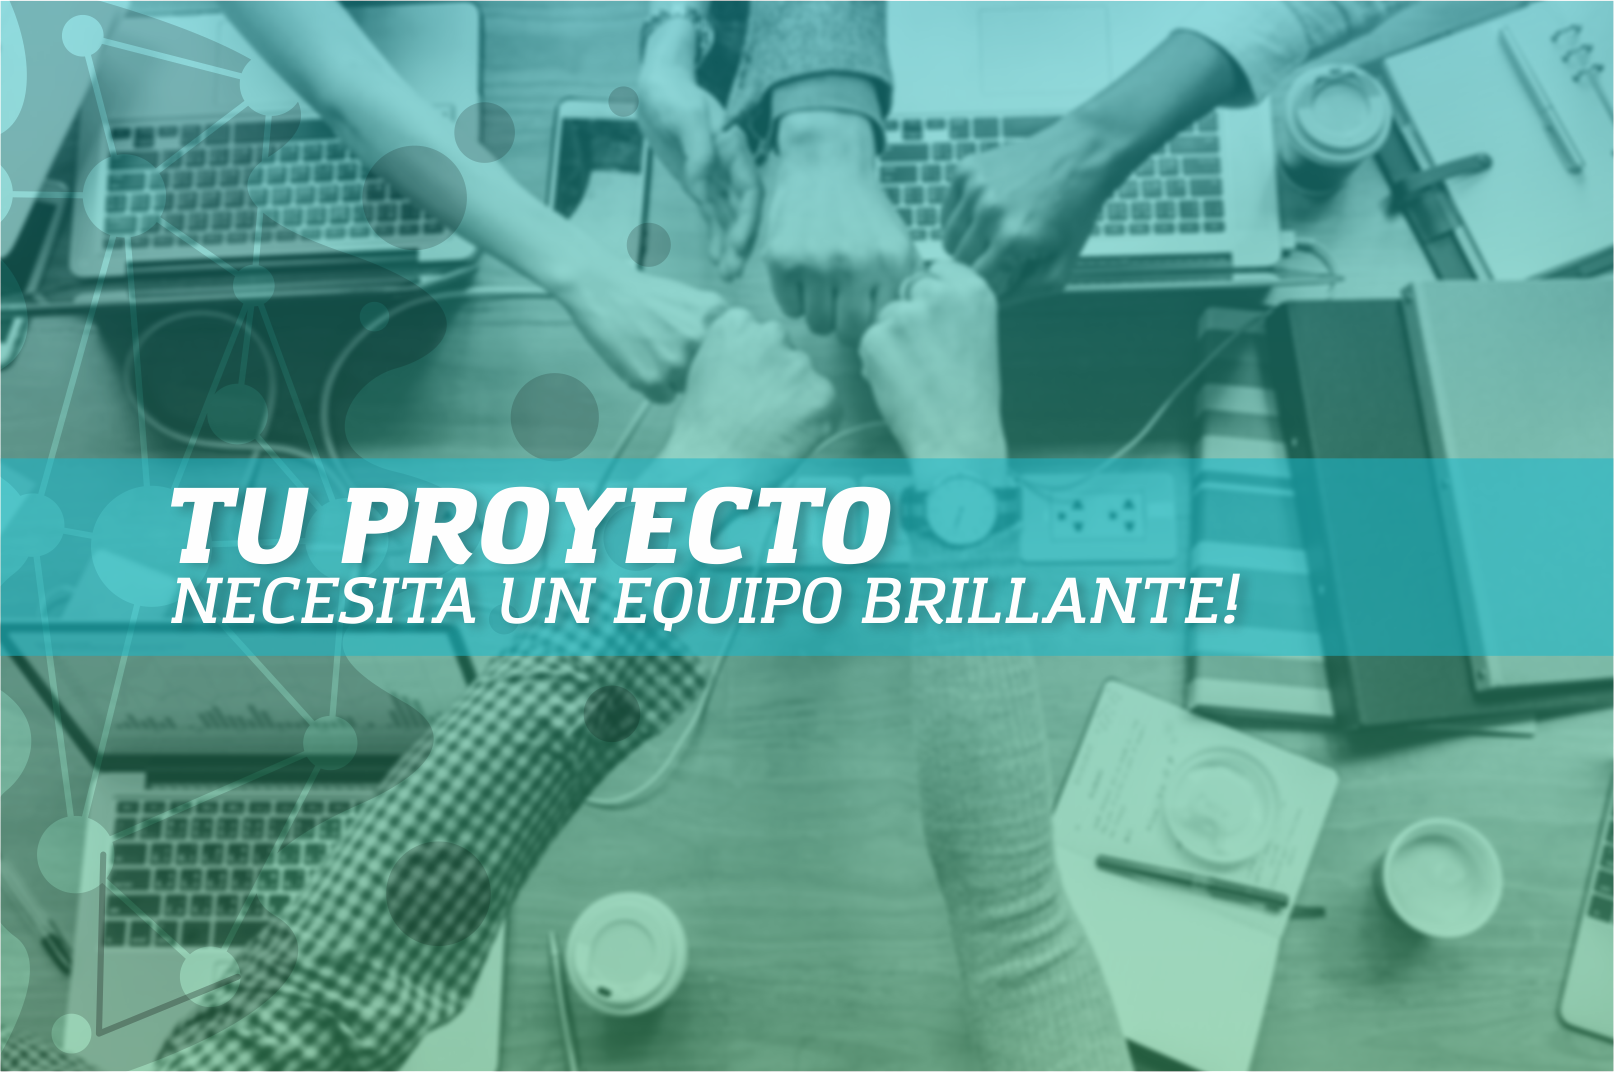
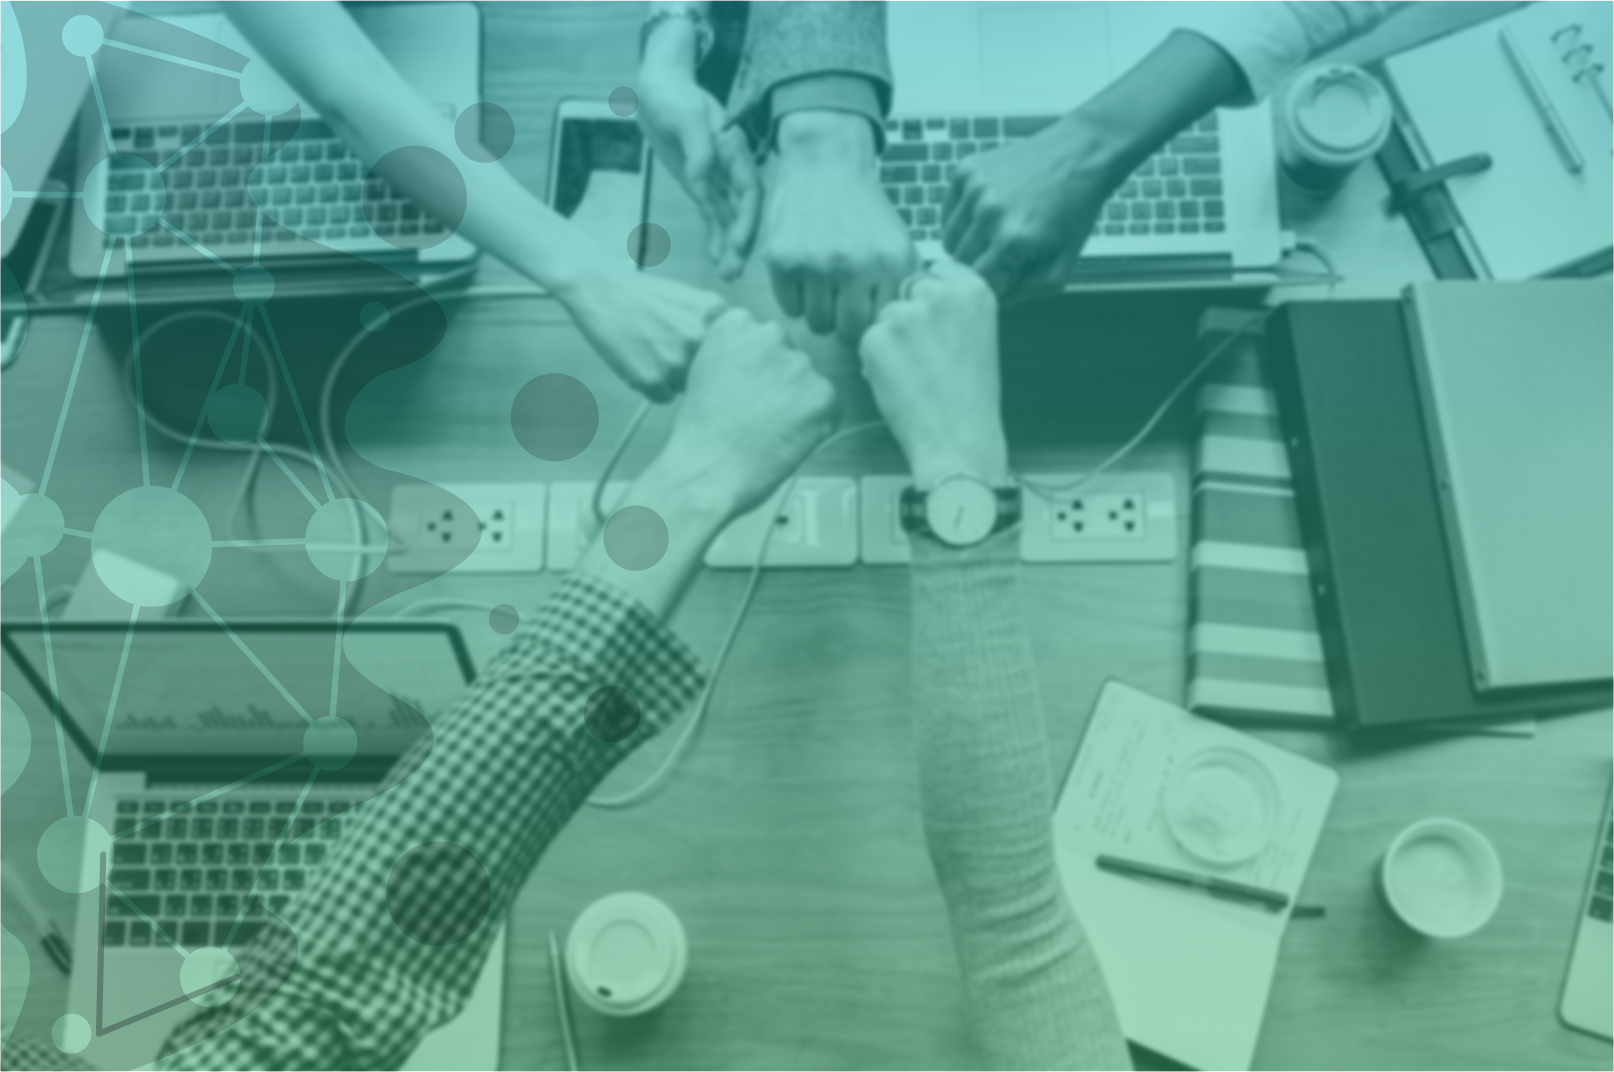
feat: hero modified

Changed region(s): [[0.0, 0.4002, 1.0, 0.6157]]

diff --git a/src/components/navigation.jsx b/src/components/navigation.jsx
@@ -4,7 +4,8 @@ export class Navigation extends Component {
   render() {
     return (
       <nav id="menu" className="menu-header navbar-default">
-        <div className="container">
+        <div className="container" id="container-menu">
+        <div id="menu-container">
           <div className="navbar-header">
             <button
               type="button"
@@ -31,29 +32,7 @@ export class Navigation extends Component {
             id="bs-example-navbar-collapse-1"
           >
             
-            <ul className="nav navbar-nav navbar-right" id="border-separator">
-              <li>
-                <a href="#services" className="page-scroll">
-                  Servicios
-                </a>
-              </li>
-              <li>
-                <a href="#portfolio" className="page-scroll">
-                  Galeria
-                </a>
-              </li>
-              <li>
-                <a href="#about" className="page-scroll">
-                  Ingresar
-                </a>
-              </li>
-              <li>
-                <a href="#about" className="page-scroll">
-                  Nosotros
-                </a>
-              </li>              
-            </ul>
-            <ul className="navbar-nav navbar-right">
+            <ul className="navbar-nav navbar-right" id="icon-social">
               <li>
                 <a
                   href={this.props.data ? this.props.data.facebook : "/"}
@@ -80,8 +59,31 @@ export class Navigation extends Component {
                 </a>
               </li>
             </ul>
+            <ul className="nav navbar-nav navbar-right" id="border-separator">
+              <li>
+                <a href="#services" className="page-scroll">
+                  Servicios
+                </a>
+              </li>
+              <li>
+                <a href="#portfolio" className="page-scroll">
+                  Galeria
+                </a>
+              </li>
+              <li>
+                <a href="#about" className="page-scroll">
+                  Ingresar
+                </a>
+              </li>
+              <li>
+                <a href="#about" className="page-scroll">
+                  Nosotros
+                </a>
+              </li>              
+            </ul>
+            </div>
+            </div>
           </div>
-        </div>
       </nav>
     );
   }

diff --git a/src/components/SliderHero/SliderHero.jsx b/src/components/SliderHero/SliderHero.jsx
@@ -3,13 +3,16 @@ import React from "react";
 import HeroSlider, { Slide, Nav, OverlayContainer } from "hero-slider";
 import Wrapper from "../UI/Wrapper/Wrapper";
 import Title from "../UI/Title/Title";
+import DownButton from "../../components/UI/Icon/down"
+
+
 import Subtitle from "../UI/Subtitle/Subtitle";
 
 // Images
-const bogliasco = "https://res.cloudinary.com/groupar/image/upload/v1603228791/groupar_f74hml.png";
-const countyClare = "https://res.cloudinary.com/groupar/image/upload/v1603228791/groupar_f74hml.png";
-const craterRock = "https://res.cloudinary.com/groupar/image/upload/v1603228791/groupar_f74hml.png";
-const giauPass = "https://res.cloudinary.com/groupar/image/upload/v1603228791/groupar_f74hml.png";
+const bogliasco = "https://res.cloudinary.com/groupar/image/upload/v1612286509/groupar_mszmp6.png";
+const countyClare = "https://res.cloudinary.com/groupar/image/upload/v1612286509/groupar_mszmp6.png";
+const craterRock = "https://res.cloudinary.com/groupar/image/upload/v1612286509/groupar_mszmp6.png";
+const giauPass = "https://res.cloudinary.com/groupar/image/upload/v1612286509/groupar_mszmp6.png";
 
 const app = () => {
   return (
@@ -35,10 +38,11 @@ const app = () => {
       }}
     >
       <OverlayContainer>
-        {/* <Wrapper>
-          <Title>Slider</Title>
-          <Subtitle>Slides' background attachment set to fixed</Subtitle>
-        </Wrapper> */}
+        <Wrapper>
+          <Title txt="Tú Proyecto necesita un equipo brillante!" />
+          <DownButton />
+          {/* <Subtitle>Slides' background attachment set to fixed</Subtitle> */}
+        </Wrapper>
       </OverlayContainer>
 
       <Slide
@@ -55,7 +59,7 @@ const app = () => {
         }}
       />
 
-      <Slide
+      {/* <Slide
         background={{
           backgroundImage: countyClare,
           backgroundAttachment: "fixed"
@@ -67,7 +71,7 @@ const app = () => {
           backgroundImage: craterRock,
           backgroundAttachment: "fixed"
         }}
-      />
+      /> */}
 
       <Nav />
     </HeroSlider>

diff --git a/public/css/style.css b/public/css/style.css
@@ -88,11 +88,26 @@ hr {
 	padding-right: 0;
 	padding-left: 0;
 }
-#border-separator li {
-	display: inline; 
+#border-separator li {	
 	margin-left: 3px; 
 	padding-left: 3px;
 	border-left:1px solid;
+	align-self: flex-end;
+}
+#container-menu{
+	/* padding-right: 0px !important;
+	padding-left: 0px !important;
+	margin-right: 0px !important;
+	margin-left: 0px !important; */
+	display:flex; 
+}
+#menu-container{
+	display:flex; 
+	justify-content: space-around;
+}
+#icon-social{
+	align-self: flex-start;
+
 }
 
 #menu.navbar-default {
@@ -222,11 +237,27 @@ a:focus, .btn:focus, .btn:active:focus, .btn.active:focus, .btn.focus, .btn:acti
 	background-size: cover;
 	-o-background-size: cover;
 }
+.buttondown{
+	width: 40%;
+	display: block;
+	margin: 0 auto;
+}
+@media (max-width: 540px) {
+  .buttondown  {
+    width: 30%;
+		display: block;
+		margin: 0 auto;
+  }
+}
 .imglogo{
 	width: 170px;
 }
 .social-icon{
-	width: 40px;
+	width: 30px;
+}
+.container-icon-social{
+	display:flex;
+	 align-items: center;
 }
 .imglogoheader{
 	width: 70px;

diff --git a/public/index.html b/public/index.html
@@ -14,6 +14,9 @@
   <link href="https://fonts.googleapis.com/css?family=Open+Sans:300,400,600,700" rel="stylesheet">
   <link href="https://fonts.googleapis.com/css?family=Lato:400,700" rel="stylesheet">
   <link href="https://fonts.googleapis.com/css?family=Raleway:300,400,500,600,700,800,900" rel="stylesheet">
+  <link href="https://fonts.googleapis.com/css?family=Bungee+Inline" rel="stylesheet">
+  <link rel="preconnect" href="https://fonts.gstatic.com">
+  <link href="https://fonts.googleapis.com/css2?family=Montserrat&display=swap" rel="stylesheet">  
   <title> Groupar</title>
   <meta name="description" content="">
   <meta name="author" content="@Issaafalkattan">

diff --git a/src/components/UI/Title/Title.module.css b/src/components/UI/Title/Title.module.css
@@ -1,8 +1,20 @@
-.Container {
+.TitleContainer {
   margin: 0 auto;
-  padding: 0;
-  text-transform: uppercase;
+  padding: 170px 0px 0px 0px;
   width: 90%;
   text-align: center;
   font-size: 3.5rem;
+  font-family: 'Montserrat', sans-serif !important;
+}
+@media (max-width: 540px) {
+  .TitleContainer  {
+    padding: 70px 0px 0px 0px;
+    font-size: 3.5rem !important;
+  }
+}
+@media (max-width: 731px) {
+  .TitleContainer  {
+    padding: 220px 0px 0px 0px;
+    font-size: 3.5rem !important;
+  }
 }

diff --git a/src/components/UI/Icon/down.jsx b/src/components/UI/Icon/down.jsx
@@ -1,0 +1,16 @@
+import React, { Component } from "react";
+
+
+export class DownButton extends Component {
+  render() {
+    return (
+
+      <div>
+        <img src={require('../../../assets/arrowdown.gif')} alt="Bajar" className="buttondown" />
+      </div>
+      
+    );
+  }
+}
+
+export default DownButton;

diff --git a/src/components/UI/Title/Title.js b/src/components/UI/Title/Title.js
@@ -5,8 +5,8 @@ import classes from './Title.module.css'
 
 const title = (props) => {
   return (
-    <h1 className={classes.Container}>
-      {props.children}
+    <h1 className={classes.TitleContainer}>
+      {props.txt}
     </h1>
   )
 }
